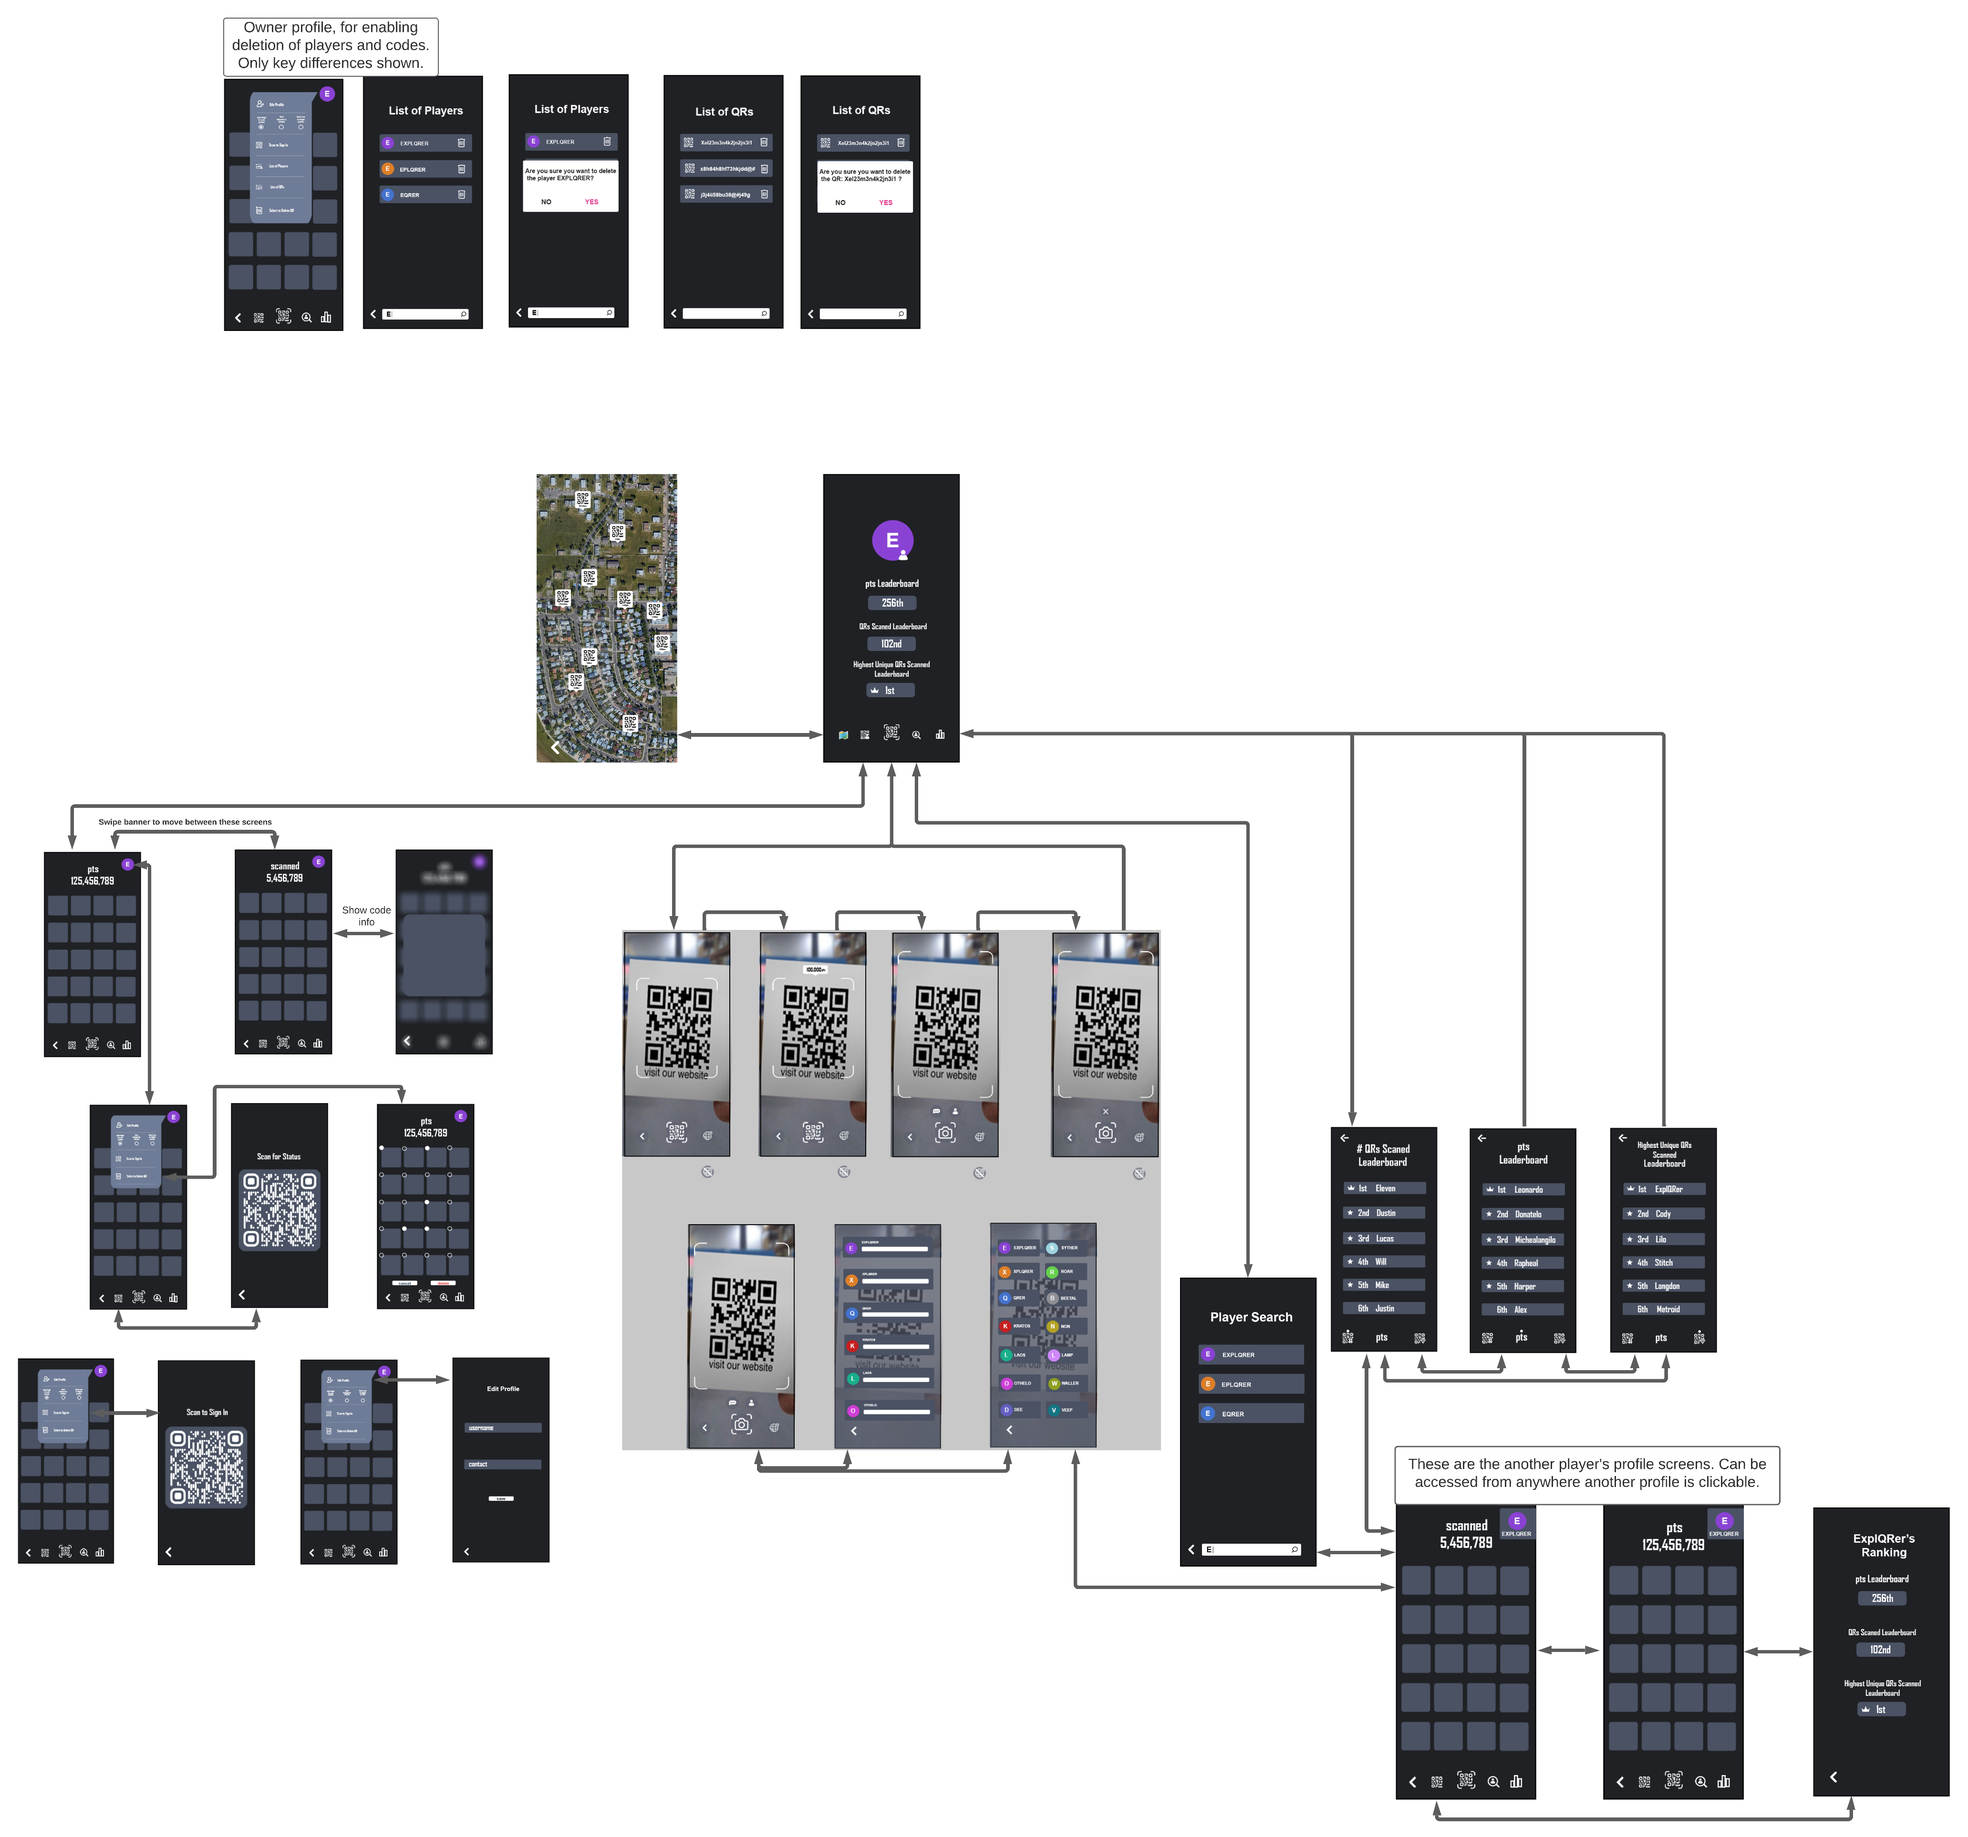
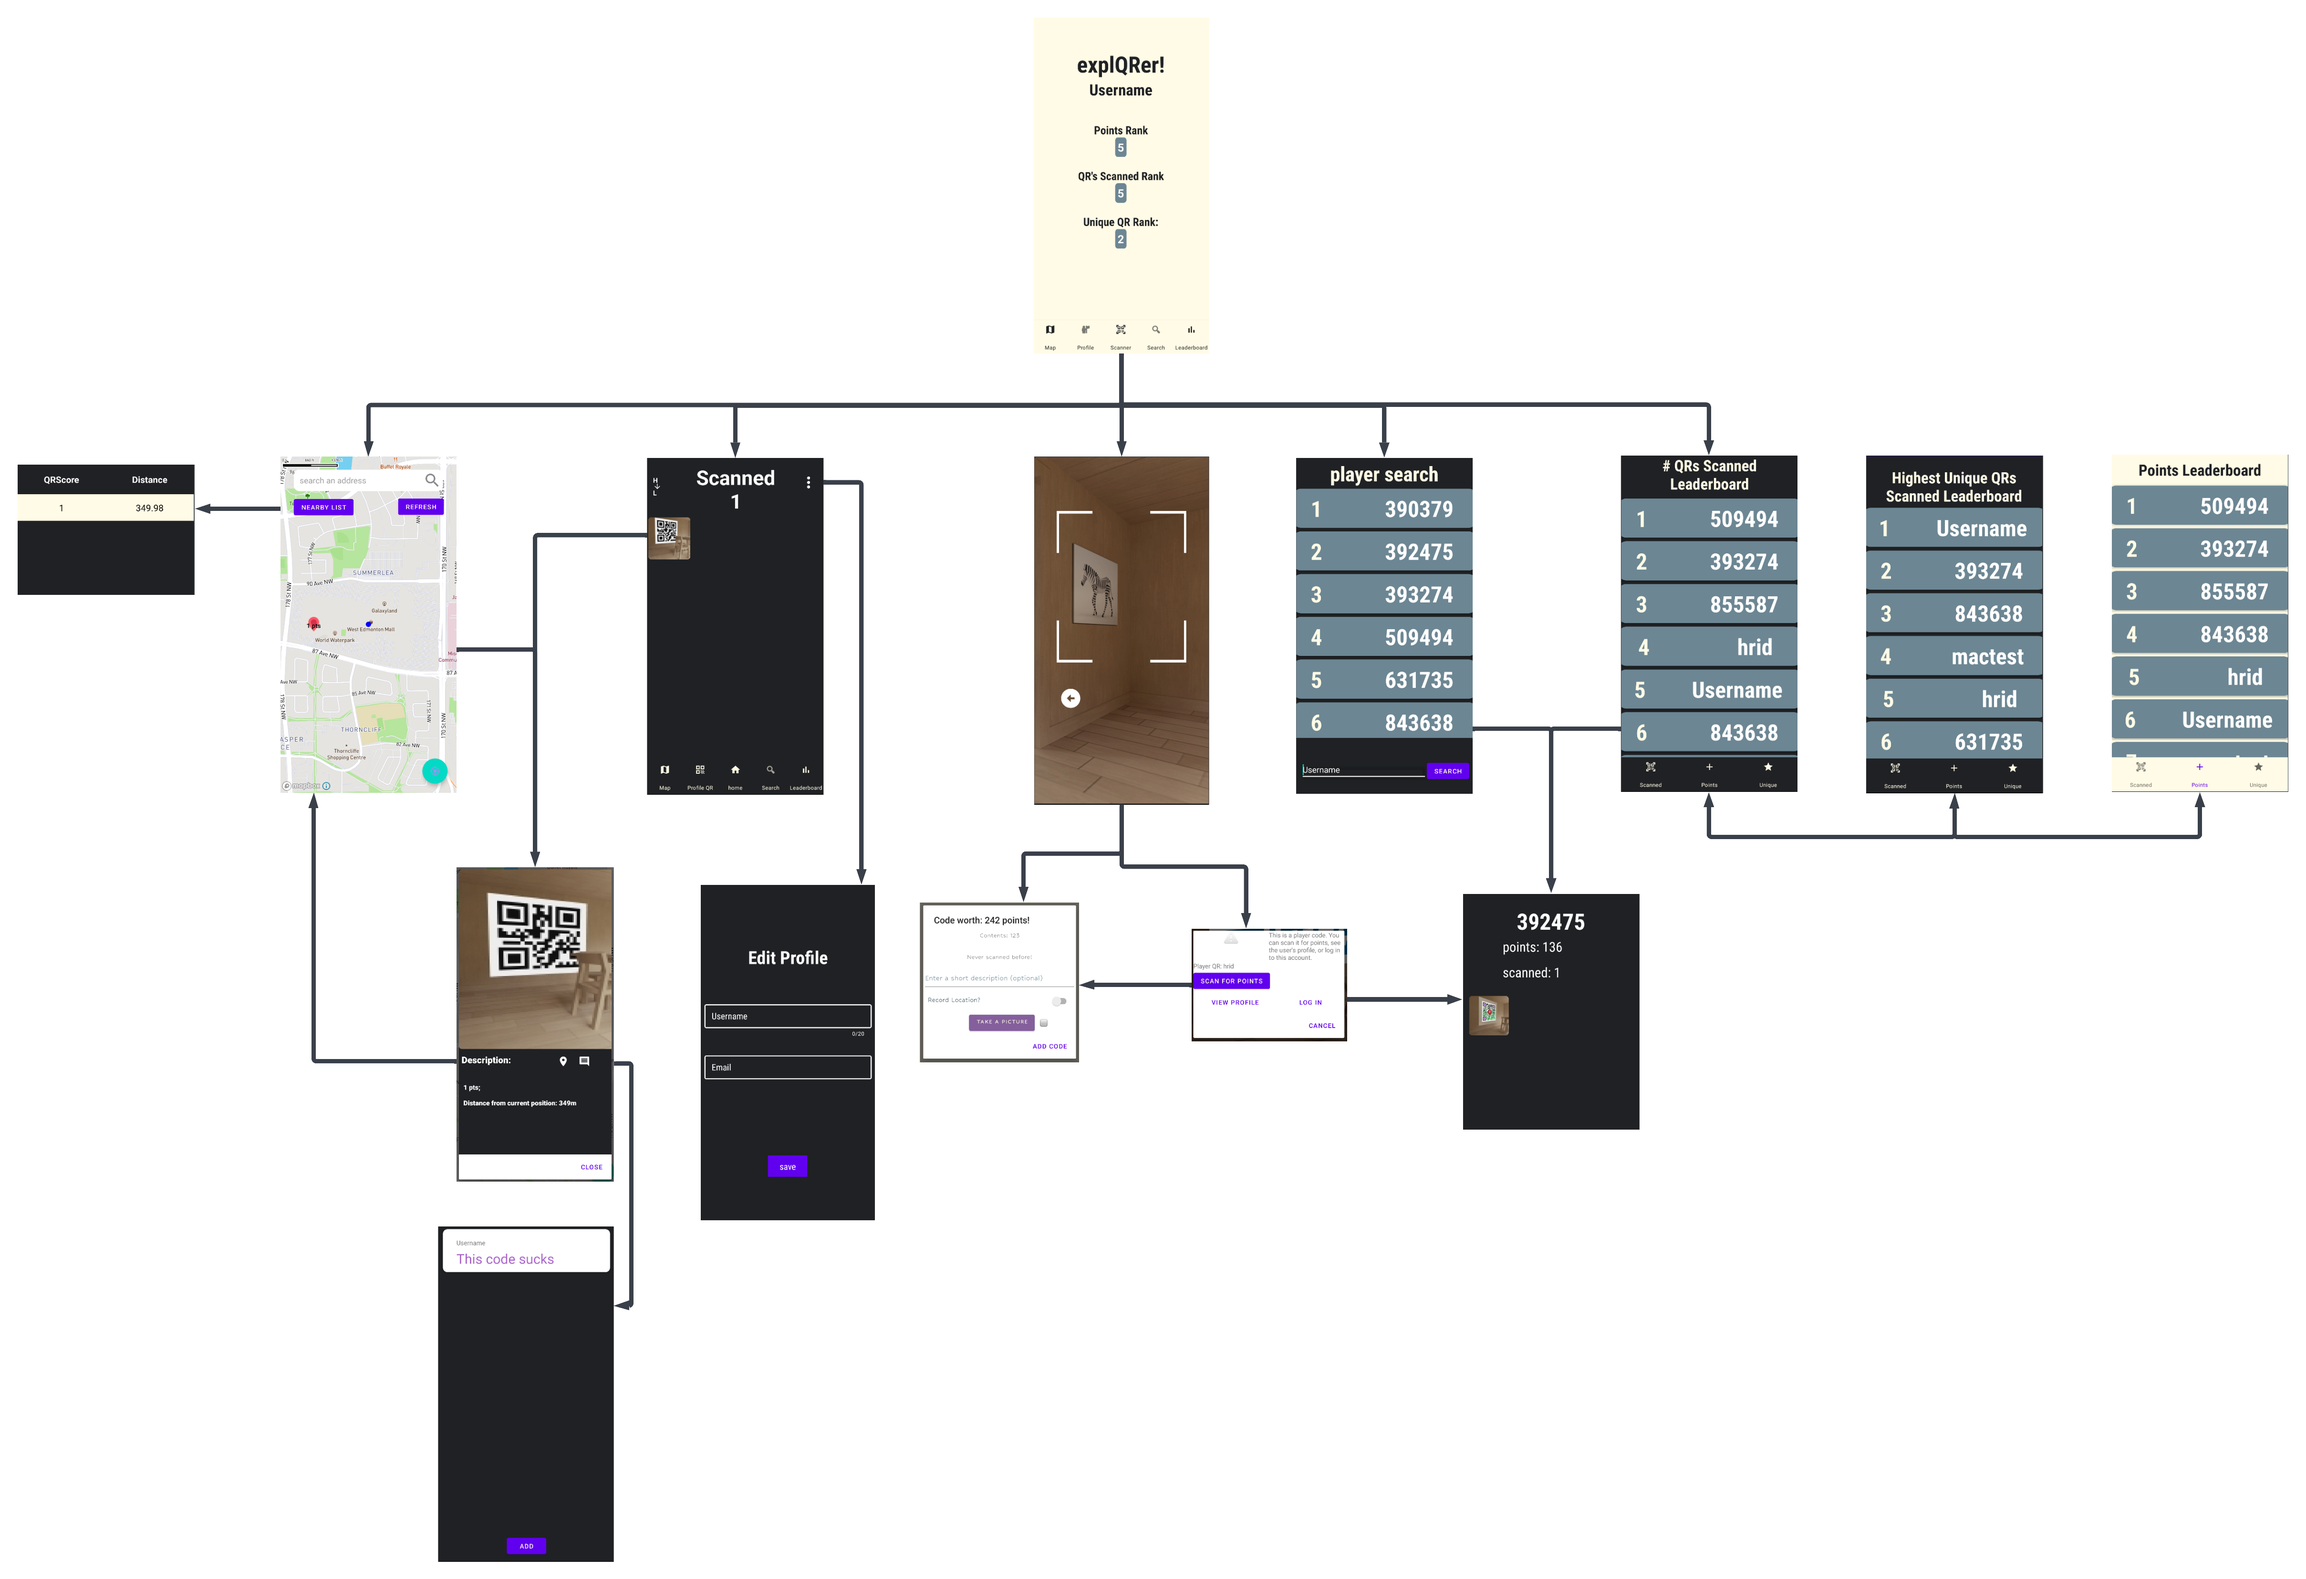
Added default QR image and updated storyboard

diff --git a/app/src/main/java/com/example/explqrer/UserProfileActivity.java b/app/src/main/java/com/example/explqrer/UserProfileActivity.java
@@ -10,6 +10,7 @@ import androidx.recyclerview.widget.RecyclerView;
 import android.app.Activity;
 import android.content.Intent;
 import android.graphics.Bitmap;
+import android.graphics.BitmapFactory;
 import android.os.Bundle;
 import android.view.MenuItem;
 import android.view.View;
@@ -37,6 +38,7 @@ public class UserProfileActivity extends AppCompatActivity
     private BottomNavigationView bottomNavigationView;
     private PlayerProfile player;
     private static UserProfileActivity userProfileInstance;
+    public static Bitmap defaultQr;
 
     public static void refresh() {
         userProfileInstance.recreate();
@@ -59,6 +61,8 @@ public class UserProfileActivity extends AppCompatActivity
         setContentView(R.layout.activity_user_profile);
 
         userProfileInstance = this;
+
+        defaultQr = BitmapFactory.decodeResource(getResources(), R.drawable.defualt_qr);
 
 
 

diff --git a/app/src/main/java/com/example/explqrer/GalleryBuilder.java b/app/src/main/java/com/example/explqrer/GalleryBuilder.java
@@ -2,7 +2,9 @@ package com.example.explqrer;
 
 import android.content.Context;
 import android.graphics.Bitmap;
+import android.graphics.BitmapFactory;
 
+import androidx.core.content.res.ResourcesCompat;
 import androidx.recyclerview.widget.GridLayoutManager;
 import androidx.recyclerview.widget.RecyclerView;
 
@@ -53,7 +55,11 @@ public class GalleryBuilder {
         for(GameCode qr : qrCodes ){
 
             GalleryListItem galleryListItem = new GalleryListItem();
-            galleryListItem.setImage(qr.getPhoto());
+            if (qr.getPhoto() == null) {
+                galleryListItem.setImage(UserProfileActivity.defaultQr);
+            } else {
+                galleryListItem.setImage(qr.getPhoto());
+            }
             galleryListItem.setHashCode(qr.getSha256hex());
             listOfImages.add(galleryListItem);
         }

diff --git a/app/src/main/java/com/example/explqrer/MainActivity.java b/app/src/main/java/com/example/explqrer/MainActivity.java
@@ -264,12 +264,14 @@ public class MainActivity extends AppCompatActivity
      */
     public void setPlayer(PlayerProfile player) {
         MainActivity.player = player;
-        for (GameCode code : player.getCodes().values()) {
-            dataHandler.getCode(code.getSha256hex(), newCode -> {
-                if (newCode == null) {
-                    player.removeCode(code);
-                }
-            });
+        if (player != null) {
+            for (GameCode code : player.getCodes().values()) {
+                dataHandler.getCode(code.getSha256hex(), newCode -> {
+                    if (newCode == null) {
+                        player.removeCode(code);
+                    }
+                });
+            }
         }
         saveData();
     }

diff --git a/app/src/main/java/com/example/explqrer/PlayerProfile.java b/app/src/main/java/com/example/explqrer/PlayerProfile.java
@@ -184,7 +184,7 @@ public class PlayerProfile implements Serializable {
      * @return
      */
     public boolean hasCode(String rawValue) {
-        return codes.containsKey(new GameCode(GameCode.hashCode(rawValue)));
+        return codes.containsKey(GameCode.hashCode(rawValue));
     }
 
     public boolean isAdmin() {
